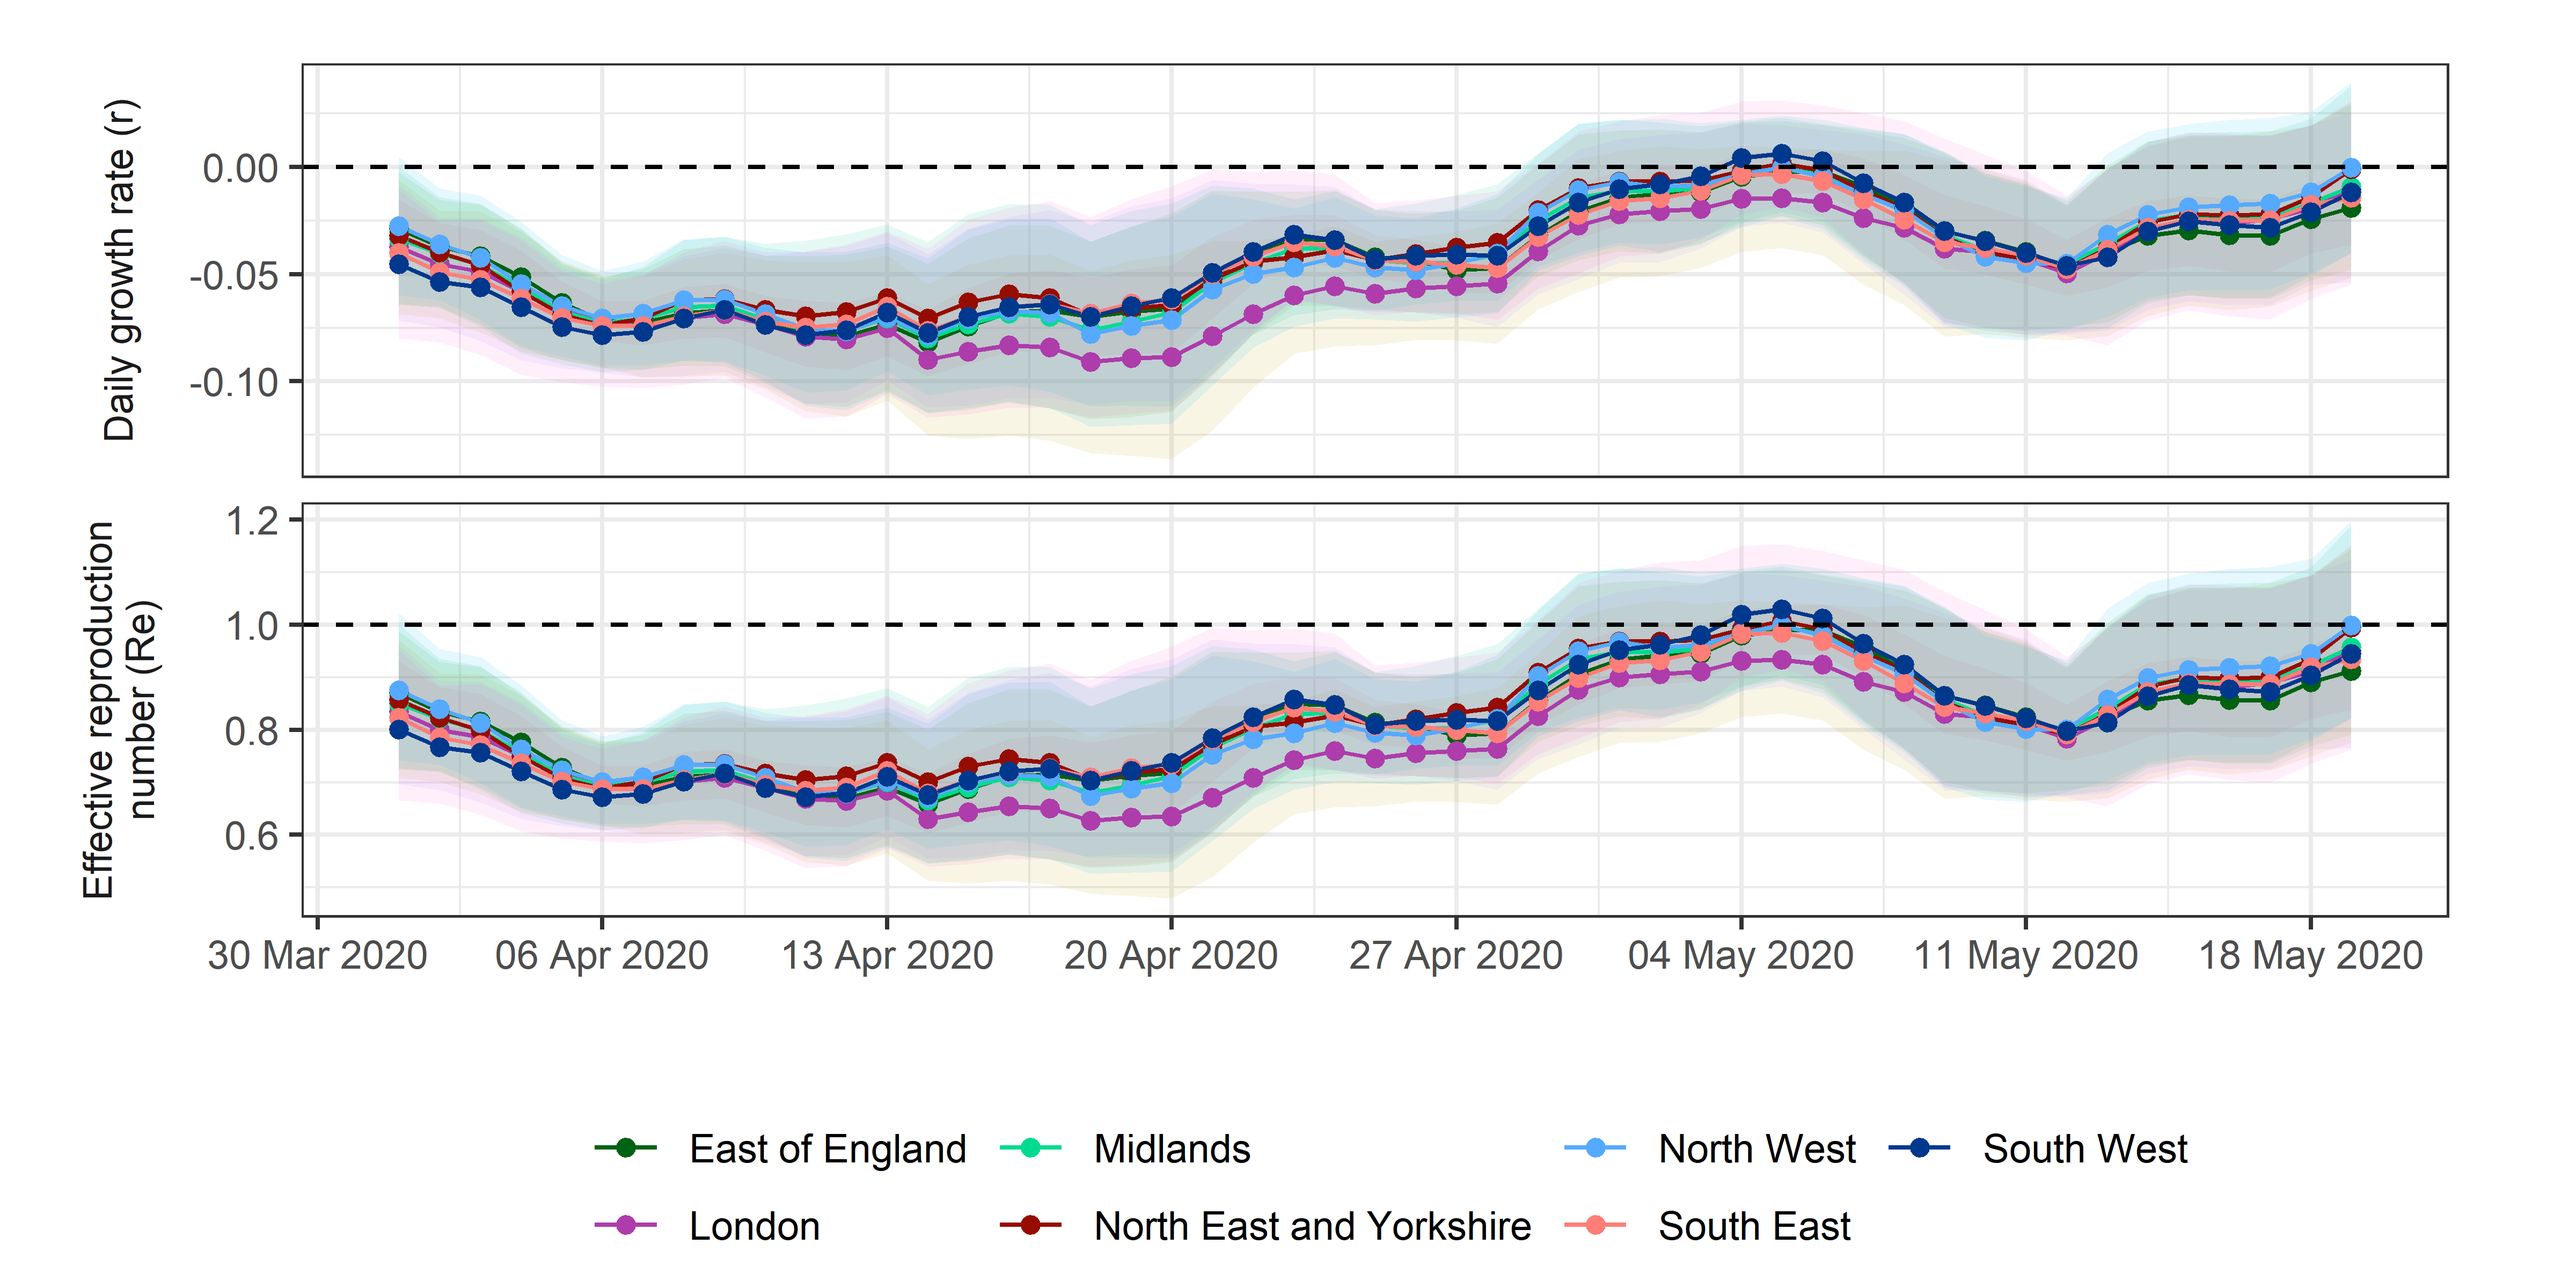
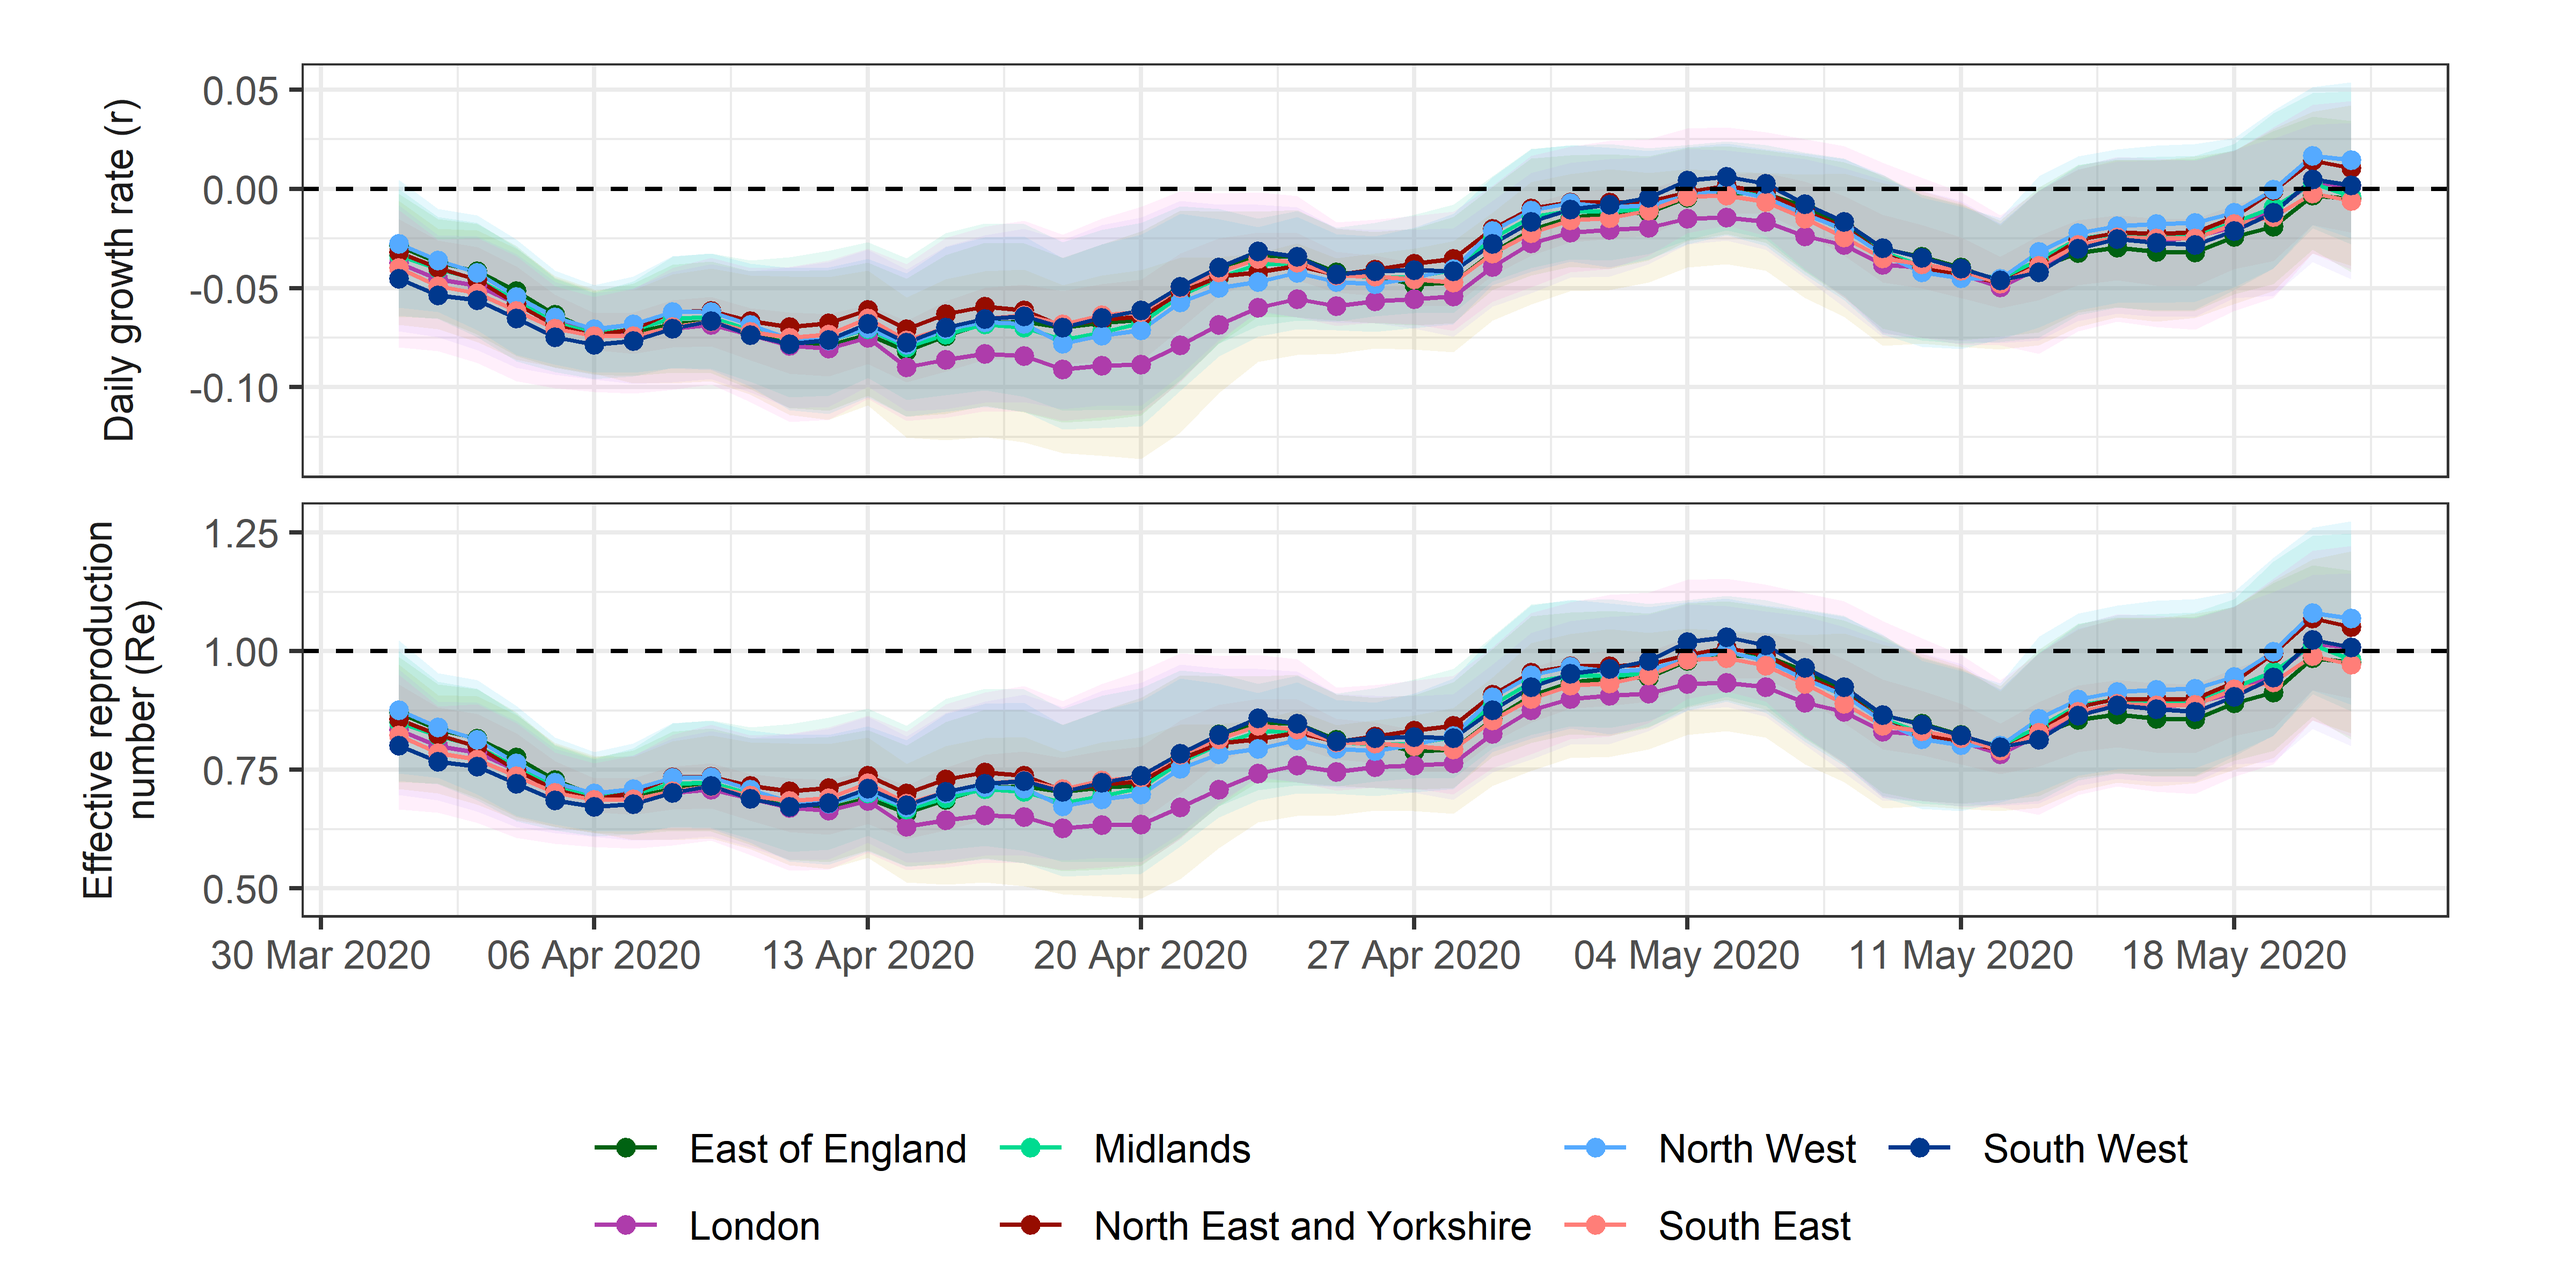
update nhs paths post

diff --git a/topics/covid19/_posts/2020-05-18-nhs-pathways.md b/topics/covid19/_posts/2020-05-18-nhs-pathways.md
@@ -3,7 +3,7 @@ title: Analysis of temporal trends in potential COVID-19 cases reported through 
 description: We analyse publicly available data on self-reported COVID-19 symptoms and deaths in England
 tags: transmission-dynamics
 status: real-time-report
-update: 2020-05-20 
+update: 2020-05-25 
 authors:
   - id: quentin_leclerc
     equal: 1
@@ -20,7 +20,7 @@ authors:
 
 ***This is a summary of the latest trends seen in potential COVID-19
 cases reported through NHS Pathways. The results presented here include
-data up to 2020-05-19. For a full discussion of this analysis, please
+data up to 2020-05-21. For a full discussion of this analysis, please
 refer to our paper available
 [here](https://www.medrxiv.org/content/10.1101/2020.05.16.20103820v1)***
 
@@ -43,7 +43,7 @@ better reflect milder cases and be less biased by different severity
 profiles than hospital admission data, which by definition reflect the
 most acute cases.
 
-Here, we analyse NHS Pathways data until 2020-05-19 to assess the
+Here, we analyse NHS Pathways data until 2020-05-21 to assess the
 temporal dynamics of COVID-19 in England. Specifically, we investigated
 potential changes in the growth rate of the epidemic over time, and
 compared the observed patterns across NHS regions. We derived
@@ -60,7 +60,7 @@ an early detection system.
 Latest results
 --------------
 
-***The results below were generated with data up to 2020-05-19.***
+***The results below were generated with data up to 2020-05-21.***
 
 ### Numbers of daily NHS Pathways report and NHS COVID-19 deaths
 
@@ -105,17 +105,17 @@ of 0.627 (95% CI: 0.488 ; 0.788).
 
 The most recent estimate of
 *r*
-averaged over all NHS regions is -0.009 (95% CI: -0.046 ; 0.027),
+averaged over all NHS regions is 0.002 (95% CI: -0.035 ; 0.038),
 corresponding to an
 *R*<sub>*e*</sub>
-of 0.956 (95% CI: 0.797 ; 1.135).
+of 1.009 (95% CI: 0.846 ; 1.192).
 
 ### Correlation between NHS Pathways reports and deaths
 
 Figure 3 illustrates the observed trend in correlation across all tested
 lags. The strongest correlation between NHS Pathways reports and deaths
 was obtained with a lag of 16 days (Pearson’s correlation = 0.96; 95%
-CI: 0.92 ; 0.98).
+CI: 0.93 ; 0.98).
 
 Estimates become increasingly unstable for longer lags as the number of
 points within the overlapping time window becomes small.
@@ -130,12 +130,12 @@ replicates.*
 
 <br>
 
-Fitting a quasi-Poisson GLM, we found that over 88.7% of the deviance in
+Fitting a quasi-Poisson GLM, we found that over 87.9% of the deviance in
 daily reported deaths could potentially be explained by NHS Pathways
-reports 16 days prior, with an average of 2.07 (bootstrap 95% CI: 1.6 ;
-2.62) additional deaths for every 1,000 potential COVID-19 cases
-reported in NHS Pathways 16 days before (intercept = 329, 95% CI: 298 ;
-363; % increase per 1000 notifications = 0.01, 95% CI: 0.54 ; 0.72))
+reports 16 days prior, with an average of 2.13 (bootstrap 95% CI: 1.65 ;
+2.69) additional deaths for every 1,000 potential COVID-19 cases
+reported in NHS Pathways 16 days before (intercept = 294, 95% CI: 264 ;
+326; % increase per 1000 notifications = 0.01, 95% CI: 0.62 ; 0.82))
 (Figure 4).
 
 <br>
@@ -158,7 +158,7 @@ Methods
 
 ### Data extraction
 
-We extracted the NHS Pathways data up to 2020-05-19 through the NHS
+We extracted the NHS Pathways data up to 2020-05-21 through the NHS
 Digital website \[1\], where they are updated daily, every weekday. The
 number of reports are stratified by Clinical Commissioning Group (CCG),
 gender and age group (0-18, 19-69 and 70-120 years old) of the patients.
@@ -183,7 +183,7 @@ maximum-likelihood.
 
 To assess potential changes of the growth rate over time, analyses were
 performed over rolling windows of 14 days from the earliest available
-date (2020-03-18) to the latest available one (2020-05-19). Growth rates
+date (2020-03-18) to the latest available one (2020-05-21). Growth rates
 and associated confidence intervals were calculated for each time
 window. Whenever the upper bound of *r* was negative, corresponding
 halving times were calculated as *l**o**g*(0.5)/*r*. Growth rates were
